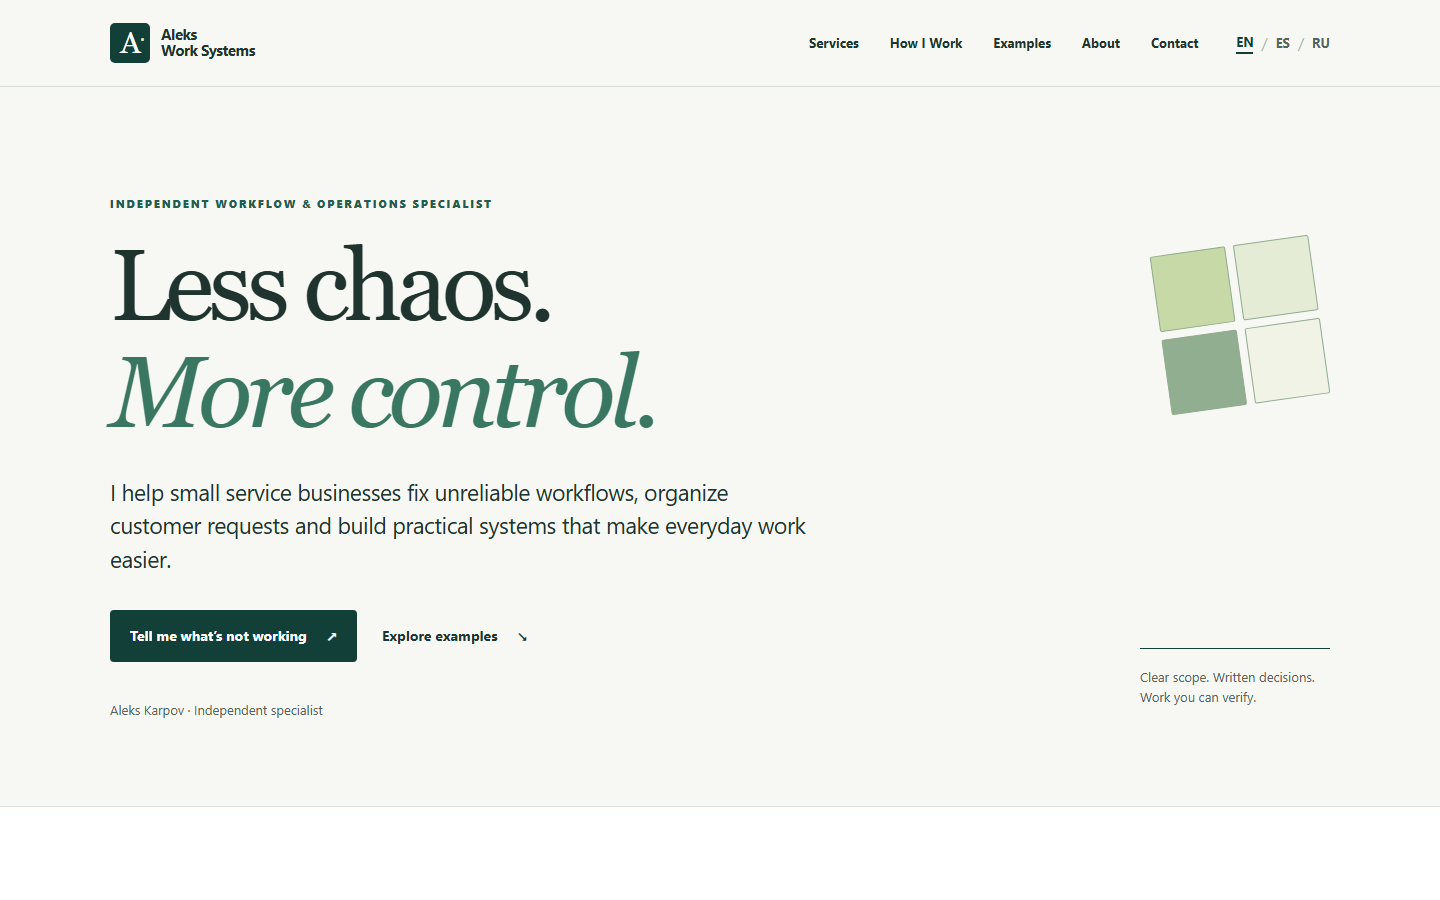
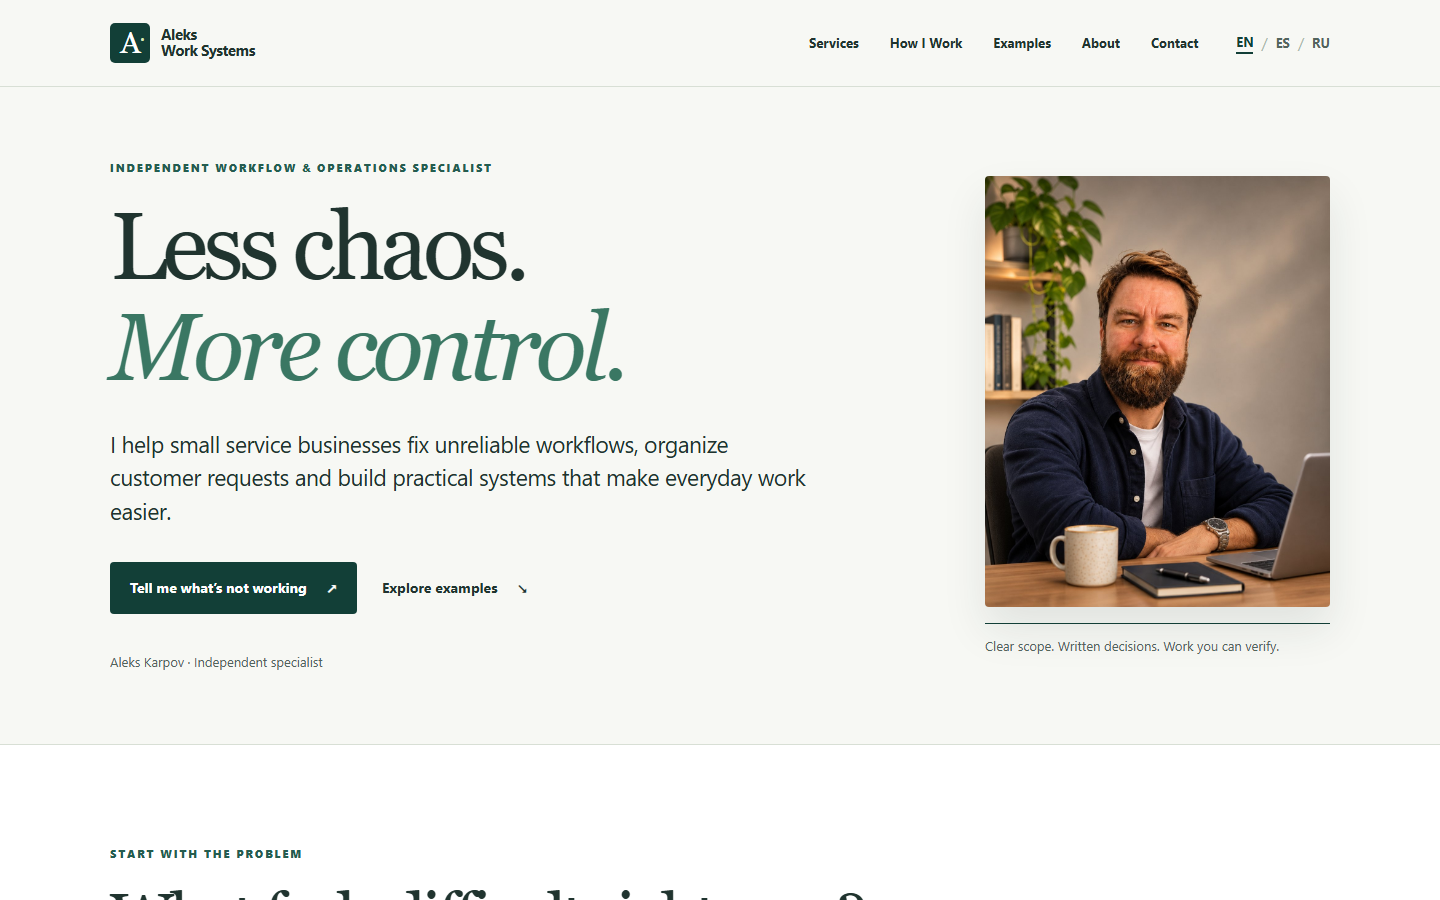
Add expanded portrait and refresh About copy

diff --git a/src/assets/styles.css b/src/assets/styles.css
@@ -14,17 +14,17 @@ button,a{touch-action:manipulation}
 .mark{display:grid;place-items:center;position:relative;flex:0 0 40px;height:40px;background:var(--green);color:#fff;border-radius:5px;font-family:Georgia,serif;font-size:30px;font-weight:400;line-height:1}.mark span{position:absolute;color:var(--lime);font-size:22px;top:5px;right:5px}
 .desktop-nav{display:flex;align-items:center;gap:clamp(15px,2.2vw,31px);margin-left:auto;white-space:nowrap}.desktop-nav a,.language-list a{font-size:13px;font-weight:650;text-decoration:none}.desktop-nav a:hover,.footer-links a:hover,.inline-actions a:hover,.about-copy a:hover{color:var(--green-2);text-decoration:underline}
 .language-list{display:flex;gap:8px;align-items:center;white-space:nowrap}.language-list a{color:var(--muted)}.language-list a[aria-current]{color:var(--green);border-bottom:2px solid var(--green)}.language-list span{color:#abb8ad}.menu-toggle,.mobile-menu{display:none}
-.hero{overflow:hidden;border-bottom:1px solid var(--line)}.hero-grid{display:grid;grid-template-columns:minmax(0,1fr) 270px;gap:7vw;align-items:end;min-height:610px;padding-top:108px;padding-bottom:85px}.eyebrow{margin:0 0 20px;color:var(--green-2);font-size:11px;font-weight:800;letter-spacing:.17em;text-transform:uppercase}.hero h1,.section h2{font-family:Georgia,"Times New Roman",serif;font-weight:400;letter-spacing:-.055em;line-height:1.06}.hero h1{font-size:clamp(60px,7vw,112px);margin:0 0 29px;max-width:820px}.hero h1 em{color:#3a7763;font-weight:400}.hero-intro{max-width:700px;font-size:clamp(18px,2vw,23px);line-height:1.45;letter-spacing:-.02em;margin:0 0 35px}.hero-actions{display:flex;align-items:center;gap:25px;flex-wrap:wrap}.button{display:inline-flex;justify-content:center;align-items:center;gap:20px;padding:14px 20px;min-height:52px;border-radius:4px;font-size:14px;font-weight:700;text-decoration:none;transition:background-color .15s,color .15s,transform .15s}.button:hover{transform:translateY(-2px)}.button-primary{background:var(--green);color:#fff}.button-primary:hover{background:#23594e}.button-text{padding-inline:0}.button-text:hover{color:var(--green-2)}.hero-byline{margin:38px 0 0;color:var(--muted);font-size:13px}.hero-aside{align-self:stretch;display:flex;flex-direction:column;justify-content:space-between;align-items:flex-end;padding-top:10px}.hero-aside p{max-width:190px;border-top:1px solid var(--green);padding-top:18px;color:var(--muted);font-size:13px}.quiet-motif{display:grid;grid-template-columns:repeat(2,76px);grid-template-rows:repeat(2,76px);gap:8px;transform:rotate(-8deg);margin:40px 10px 0 0}.quiet-motif span{border:1px solid #8fab8f;border-radius:2px}.quiet-motif span:nth-child(1){background:#c7d9a7}.quiet-motif span:nth-child(2){background:#e4ecd5}.quiet-motif span:nth-child(3){background:#91ae91}.quiet-motif span:nth-child(4){background:#f1f3e6}
+.hero{overflow:hidden;border-bottom:1px solid var(--line)}.hero-grid{display:grid;grid-template-columns:minmax(0,1fr) 345px;gap:clamp(36px,5vw,76px);align-items:center;min-height:650px;padding-top:72px;padding-bottom:72px}.hero-content{min-width:0}.eyebrow{margin:0 0 20px;color:var(--green-2);font-size:11px;font-weight:800;letter-spacing:.17em;text-transform:uppercase}.hero h1,.section h2{font-family:Georgia,"Times New Roman",serif;font-weight:400;letter-spacing:-.055em;line-height:1.06}.hero h1{font-size:clamp(60px,6.6vw,102px);margin:0 0 29px;max-width:820px}.hero h1 em{color:#3a7763;font-weight:400}.hero-intro{max-width:700px;font-size:clamp(18px,2vw,23px);line-height:1.45;letter-spacing:-.02em;margin:0 0 35px}.hero-actions{display:flex;align-items:center;gap:25px;flex-wrap:wrap}.button{display:inline-flex;justify-content:center;align-items:center;gap:20px;padding:14px 20px;min-height:52px;border-radius:4px;font-size:14px;font-weight:700;text-decoration:none;transition:background-color .15s,color .15s,transform .15s}.button:hover{transform:translateY(-2px)}.button-primary{background:var(--green);color:#fff}.button-primary:hover{background:#23594e}.button-text{padding-inline:0}.button-text:hover{color:var(--green-2)}.hero-byline{margin:38px 0 0;color:var(--muted);font-size:13px}.hero-portrait{min-width:0;margin:0;align-self:center}.hero-portrait img{display:block;width:100%;height:auto;aspect-ratio:1122/1402;object-fit:cover;object-position:center;border-radius:4px;box-shadow:0 22px 44px #20342f1a}.hero-portrait figcaption{margin:16px 0 0;padding-top:12px;border-top:1px solid var(--green);color:var(--muted);font-size:13px;line-height:1.5}
 .section{padding:100px 0;border-bottom:1px solid var(--line)}.section-head{max-width:760px;margin-bottom:42px}.section h2{font-size:clamp(40px,4.5vw,67px);margin:0 0 17px}.section-intro{max-width:650px;font-size:18px;color:var(--muted);margin:0}
 .situations-section{background:var(--white)}.situation-grid{display:grid;grid-template-columns:1fr 1fr;border-top:1px solid var(--line);border-left:1px solid var(--line)}.situation{display:grid;grid-template-columns:46px 1fr;gap:18px;padding:31px;border-right:1px solid var(--line);border-bottom:1px solid var(--line)}.situation-number,.service-number,.step-number{font-size:12px;color:var(--green-2);font-weight:800;letter-spacing:.1em}.situation h3,.service h3,.project h3{font-family:Georgia,serif;font-weight:400;letter-spacing:-.035em;line-height:1.13}.situation h3{font-size:29px;margin:0 0 14px}.situation p{color:var(--muted);margin:0 0 13px}.situation .situation-answer{color:var(--ink)}.inline-actions{display:flex;flex-wrap:wrap;gap:12px 24px;margin-top:20px}.inline-actions a{color:var(--green);font-size:13px;font-weight:750;text-decoration:none}
 .services-grid{display:grid;grid-template-columns:repeat(2,minmax(0,1fr));gap:18px}.service{background:#fff;border:1px solid var(--line);padding:30px}.service-top{display:flex;gap:20px;align-items:baseline;border-bottom:1px solid var(--line);margin-bottom:21px;padding-bottom:17px}.service h3{font-size:31px;margin:0}.service dl{margin:0}.service dl div{display:grid;grid-template-columns:130px 1fr;gap:15px;padding:11px 0}.service dt{font-size:11px;font-weight:800;letter-spacing:.08em;text-transform:uppercase;color:var(--green-2)}.service dd{margin:0;color:var(--muted);font-size:14px;line-height:1.55}
 .method-section{background:#eaf0e7}.steps{list-style:none;margin:0;padding:0;display:grid;grid-template-columns:repeat(4,minmax(0,1fr));gap:22px}.steps li{border-top:1px solid #a5b9a5;padding-top:21px}.steps h3{margin:28px 0 10px;font-size:23px;line-height:1.2}.steps p{margin:0;color:var(--muted);font-size:14px}.audit-note{max-width:830px;margin:50px 0 0;padding:21px 25px;border-left:3px solid var(--green-2);background:rgba(255,255,255,.5);font-size:15px}
 .projects-grid{display:grid;grid-template-columns:repeat(2,minmax(0,1fr));gap:18px}.project{display:flex;flex-direction:column;min-height:335px;background:#fff;border:1px solid var(--line);padding:30px}.project-meta{display:flex;justify-content:space-between;gap:12px;color:var(--green-2);font-size:11px;font-weight:800;letter-spacing:.1em;text-transform:uppercase}.project h3{font-size:30px;margin:36px 0 13px}.project p{margin:0 0 12px;color:var(--muted);font-size:14px}.project .project-shows{color:var(--ink)}.project .concept-note{padding-top:12px;border-top:1px solid var(--line);font-size:12px;font-weight:650}.project-link{margin-top:auto;padding-top:15px}.project-link a{color:var(--green);font-size:13px;font-weight:800;text-decoration:none}.project-link a:hover{text-decoration:underline}
-.about-section{background:#fff}.about-grid{display:grid;grid-template-columns:1fr 1fr;gap:8vw}.about-copy{padding-top:22px;font-size:18px;line-height:1.65}.about-copy p{margin:0 0 24px}.about-copy a{color:var(--green);font-size:15px;font-weight:750}
+.about-section{background:#fff}.about-grid{display:grid;grid-template-columns:1fr 1fr;gap:8vw}.about-copy{padding-top:22px;font-size:18px;line-height:1.65}.about-copy p{margin:0 0 24px}.about-quote{margin:30px 0;padding:4px 0 4px 20px;border-left:3px solid var(--green-2);font:italic 24px/1.35 Georgia,"Times New Roman",serif;color:var(--green)}.about-copy a{color:var(--green);font-size:15px;font-weight:750}
 .contact-section{background:var(--green);color:#f8fbf5;border:0}.contact-section .eyebrow{color:var(--lime)}.contact-section .section-intro{color:#d7e3d8}.contact-grid{display:grid;grid-template-columns:minmax(0,1.7fr) minmax(250px,1fr);gap:9vw}.contact-section .section-head{margin-bottom:25px}.button-light{background:#ecf2e4;color:var(--green)}.button-light:hover{background:#fff}.contact-email a{color:#e0eddb;font-size:14px}.contact-options{border-top:1px solid #6d9485;padding-top:20px;align-self:center}.contact-options p{margin:0 0 16px;color:#d7e3d8;font-size:13px}.contact-options a{display:flex;justify-content:space-between;gap:12px;padding:12px 0;border-bottom:1px solid #4a7568;text-decoration:none;font-size:14px}.contact-options a:hover{color:var(--lime)}
 .site-footer{padding:54px 0 20px;background:#f1f3ec}.footer-grid{display:grid;grid-template-columns:1fr 1fr;gap:24px;padding-bottom:40px}.footer-wordmark{color:var(--green);font-size:20px;font-weight:800;letter-spacing:-.04em;text-decoration:none}.footer-grid p{max-width:360px;color:var(--muted);font-size:13px}.footer-links{display:flex;flex-direction:column;gap:9px;align-items:flex-start;font-size:13px}.footer-bottom{display:flex;justify-content:space-between;gap:30px;border-top:1px solid var(--line);padding-top:17px}.footer-bottom small{color:var(--muted);font-size:11px}.footer-bottom small:last-child{max-width:590px}
-@media(max-width:1080px){.header-inner{gap:20px}.wordmark{min-width:180px}.desktop-nav{gap:16px}.desktop-nav a,.language-list a{font-size:12px}.hero-grid{grid-template-columns:minmax(0,1fr) 190px;gap:35px}.quiet-motif{grid-template-columns:repeat(2,57px);grid-template-rows:repeat(2,57px)}}
-@media(max-width:860px){.desktop-nav,.desktop-languages{display:none}.menu-toggle{display:flex;margin-left:auto;flex-direction:column;justify-content:center;gap:7px;width:46px;height:46px;border:1px solid var(--line);border-radius:4px;background:transparent;cursor:pointer}.menu-toggle span{width:20px;height:2px;margin-inline:auto;background:var(--green)}.mobile-menu:not([hidden]){display:block;border-top:1px solid var(--line);background:var(--paper)}.mobile-menu .container{display:flex;flex-direction:column;padding-top:12px;padding-bottom:20px}.mobile-menu a{padding:10px 0;text-decoration:none;font-weight:650}.mobile-menu .language-list{border-top:1px solid var(--line);margin-top:12px;padding-top:12px;gap:12px}.mobile-menu .language-list a{padding:3px}.hero-grid{min-height:0;padding-block:80px}.hero-aside{display:none}.steps{grid-template-columns:repeat(2,1fr)}.contact-grid{gap:5vw}}
-@media(max-width:650px){.container{width:min(var(--max),calc(100% - 36px))}.header-inner{min-height:72px}.wordmark{min-width:0}.hero-grid{display:block;padding-block:70px}.hero h1{font-size:clamp(54px,12.7vw,80px)}.hero-intro{font-size:18px}.hero-byline{margin-top:31px}.section{padding:70px 0}.section h2{font-size:clamp(39px,10vw,55px)}.section-intro{font-size:16px}.situation-grid,.services-grid,.projects-grid,.about-grid,.contact-grid,.footer-grid{grid-template-columns:1fr}.situation{padding:24px 18px;grid-template-columns:30px 1fr;gap:10px}.situation h3{font-size:25px}.service{padding:24px}.service dl div{grid-template-columns:1fr;gap:3px}.service h3{font-size:28px}.steps{grid-template-columns:1fr 1fr;gap:27px}.steps h3{margin-top:20px;font-size:20px}.project{min-height:0;padding:24px}.project h3{margin-top:24px}.about-grid{gap:0}.about-copy{padding-top:0;font-size:16px}.contact-grid{gap:35px}.contact-options{align-self:auto}.footer-bottom{display:block}.footer-bottom small{display:block;margin-bottom:11px}.hero-actions{gap:8px 22px}}
+@media(max-width:1080px){.header-inner{gap:20px}.wordmark{min-width:180px}.desktop-nav{gap:16px}.desktop-nav a,.language-list a{font-size:12px}.hero-grid{grid-template-columns:minmax(0,1fr) 275px;gap:35px}.hero h1{font-size:clamp(60px,6.3vw,82px)}}
+@media(max-width:860px){.desktop-nav,.desktop-languages{display:none}.menu-toggle{display:flex;margin-left:auto;flex-direction:column;justify-content:center;gap:7px;width:46px;height:46px;border:1px solid var(--line);border-radius:4px;background:transparent;cursor:pointer}.menu-toggle span{width:20px;height:2px;margin-inline:auto;background:var(--green)}.mobile-menu:not([hidden]){display:block;border-top:1px solid var(--line);background:var(--paper)}.mobile-menu .container{display:flex;flex-direction:column;padding-top:12px;padding-bottom:20px}.mobile-menu a{padding:10px 0;text-decoration:none;font-weight:650}.mobile-menu .language-list{border-top:1px solid var(--line);margin-top:12px;padding-top:12px;gap:12px}.mobile-menu .language-list a{padding:3px}.hero-grid{grid-template-columns:minmax(0,1fr) 235px;min-height:0;padding-block:70px}.steps{grid-template-columns:repeat(2,1fr)}.contact-grid{gap:5vw}}
+@media(max-width:650px){.container{width:min(var(--max),calc(100% - 36px))}.header-inner{min-height:72px}.wordmark{min-width:0}.hero-grid{display:block;padding-block:58px}.hero h1{font-size:clamp(54px,12.7vw,80px)}.hero-intro{font-size:18px}.hero-byline{margin-top:31px}.hero-portrait{max-width:360px;margin:38px auto 0}.hero-portrait img{aspect-ratio:4/3;object-position:center 33%}.section{padding:70px 0}.section h2{font-size:clamp(39px,10vw,55px)}.section-intro{font-size:16px}.situation-grid,.services-grid,.projects-grid,.about-grid,.contact-grid,.footer-grid{grid-template-columns:1fr}.situation{padding:24px 18px;grid-template-columns:30px 1fr;gap:10px}.situation h3{font-size:25px}.service{padding:24px}.service dl div{grid-template-columns:1fr;gap:3px}.service h3{font-size:28px}.steps{grid-template-columns:1fr 1fr;gap:27px}.steps h3{margin-top:20px;font-size:20px}.project{min-height:0;padding:24px}.project h3{margin-top:24px}.about-grid{gap:0}.about-copy{padding-top:0;font-size:16px}.about-quote{font-size:22px}.contact-grid{gap:35px}.contact-options{align-self:auto}.footer-bottom{display:block}.footer-bottom small{display:block;margin-bottom:11px}.hero-actions{gap:8px 22px}}
 @media(max-width:390px){.steps{grid-template-columns:1fr}.hero h1{font-size:52px}.hero-actions .button-primary{width:100%}.situation{grid-template-columns:1fr}.situation-number{margin-bottom:5px}}
 @media(prefers-reduced-motion:reduce){html{scroll-behavior:auto}.button{transition:none}.button:hover{transform:none}}

diff --git a/README.md b/README.md
@@ -41,13 +41,13 @@ The GitHub Actions workflow sets `SITE_URL` from the repository owner automatica
 
 The enquiry route is a prefilled `mailto:` link. It opens the visitor's email application; no data is submitted to this website, and there is no hidden contact backend. The four external examples were opened and reviewed on 2026-11-16. The three company concepts are identified on this site and on their own pages as independent demonstrations, not official or commissioned projects.
 
-Before broad promotion, Aleks should confirm his biography, contact address, LinkedIn profile, and comfort with showing the three concept examples. An approved portrait may be added later; the current design does not use a fictional likeness.
+Before broad promotion, Aleks should confirm his biography, contact address, LinkedIn profile, and comfort with showing the three concept examples. The hero uses an edited version of the portrait he supplied. The circular mask and embedded branding were removed to make a clean rectangular photograph for the site.
 
 ## Design and accessibility
 
-The design uses an off-white background, dark green primary actions, restrained pale green accents, Georgia for editorial headings, and the system sans-serif stack for UI and body copy. Layouts switch from two columns to one column at mobile widths. The site includes a skip link, semantic landmarks, visible focus, reduced-motion support, translated mobile navigation labels, language-specific metadata, `hreflang`, Open Graph tags, a sitemap and `robots.txt`. It contains no analytics or tracking scripts.
+The design uses an off-white background, dark green primary actions, restrained pale green accents, a rectangular editorial portrait, Georgia for headings, and the system sans-serif stack for UI and body copy. Layouts switch from two columns to one column at mobile widths. The site includes a skip link, semantic landmarks, visible focus, reduced-motion support, translated mobile navigation labels, language-specific metadata, `hreflang`, Open Graph tags, a sitemap and `robots.txt`. It contains no analytics or tracking scripts.
 
-The project was checked in a browser at 1440, 1024, 768, 390 and 360 px in each language. There was no horizontal overflow or missing image. The mobile menu and RU→EN language switch were exercised. Lighthouse scores were not measured.
+The initial release was checked in a browser at 1440, 1024, 768, 390 and 360 px in each language. There was no horizontal overflow or missing image. The mobile menu and RU→EN language switch were exercised. The portrait revision was visually reviewed at 1440 px in English, 768 px in Russian and 500 px in Russian. Lighthouse scores were not measured.
 
 See [QA.md](QA.md) for the review record and current verification limits. The three Open Graph preview PNGs can be regenerated on Windows with `./scripts/make-og.ps1`.
-Screenshots of the published site are in [`screenshots/`](screenshots/).
+Screenshots of the updated site build are in [`screenshots/`](screenshots/).

diff --git a/QA.md b/QA.md
@@ -2,6 +2,8 @@
 
 ## Browser checks
 
+The initial release checks are followed by the portrait and About revision checks.
+
 - Opened the generated EN, ES and RU pages in the in-app browser. English opens at `/`; the other languages open at `/es/` and `/ru/`.
 - At 1440, 1024, 768, 390 and 360 px in each language, `document.documentElement.scrollWidth` was no greater than the viewport width. No missing images were reported.
 - Visually reviewed the 1440 px English desktop view, 390 px English mobile view, 360 px Russian mobile view and expanded Russian mobile menu.
@@ -10,7 +12,8 @@
 - Checked generated fragment links and local asset paths with `npm run check`.
 - Opened all four external examples. The three company examples each disclose that they are independent concepts, not official sites. The independent ARWT tool loaded and displayed its diagnostic flow.
 - After deployment, opened the public English, Spanish and Russian URLs in Chrome and confirmed the translated titles, headings, navigation and language links.
-- Captured the published English page at 1440 × 900 and Russian mobile page at 500 × 844 in `screenshots/`.
+- For the portrait and About update, checked the rebuilt first screen at 1440 × 900 (EN), 768 × 1024 (RU) and 500 × 1250 (RU). The new screenshots in `screenshots/` are from that rebuilt site.
+- The supplied circular portrait was expanded into a rectangular image without its embedded logo and exported as a 187 KB JPEG. The decorative squares were removed from the hero. The revised About copy draws on the earlier Solo founder prototype's EN/ES/RU text and keeps its practical, first-person tone without transferring unverified numerical claims.
 
 ## Critical review and changes
 
@@ -22,5 +25,5 @@
 
 - The public repository was created under `kc-platform` and GitHub Pages was configured to deploy with GitHub Actions. The deployed public URL is `https://kc-platform.github.io/aleks-worksystems/`.
 - Lighthouse scores and a full automated WCAG audit were not measured. Accessibility was reviewed through semantic markup, keyboard-oriented controls, focus styles, contrast choices and the browser accessibility tree.
-- The screenshots in `screenshots/` show representative first-screen views, not full-page captures. The three localized Open Graph PNGs in `src/assets/` are share-preview graphics.
+- The screenshots in `screenshots/` show representative first-screen views of the rebuilt site, not full-page captures. The three localized Open Graph PNGs in `src/assets/` are share-preview graphics.
 - Delivery of a message through a visitor's email application cannot be tested without sending a real enquiry. The `mailto:` links and encoded subject/body were inspected in the browser.
